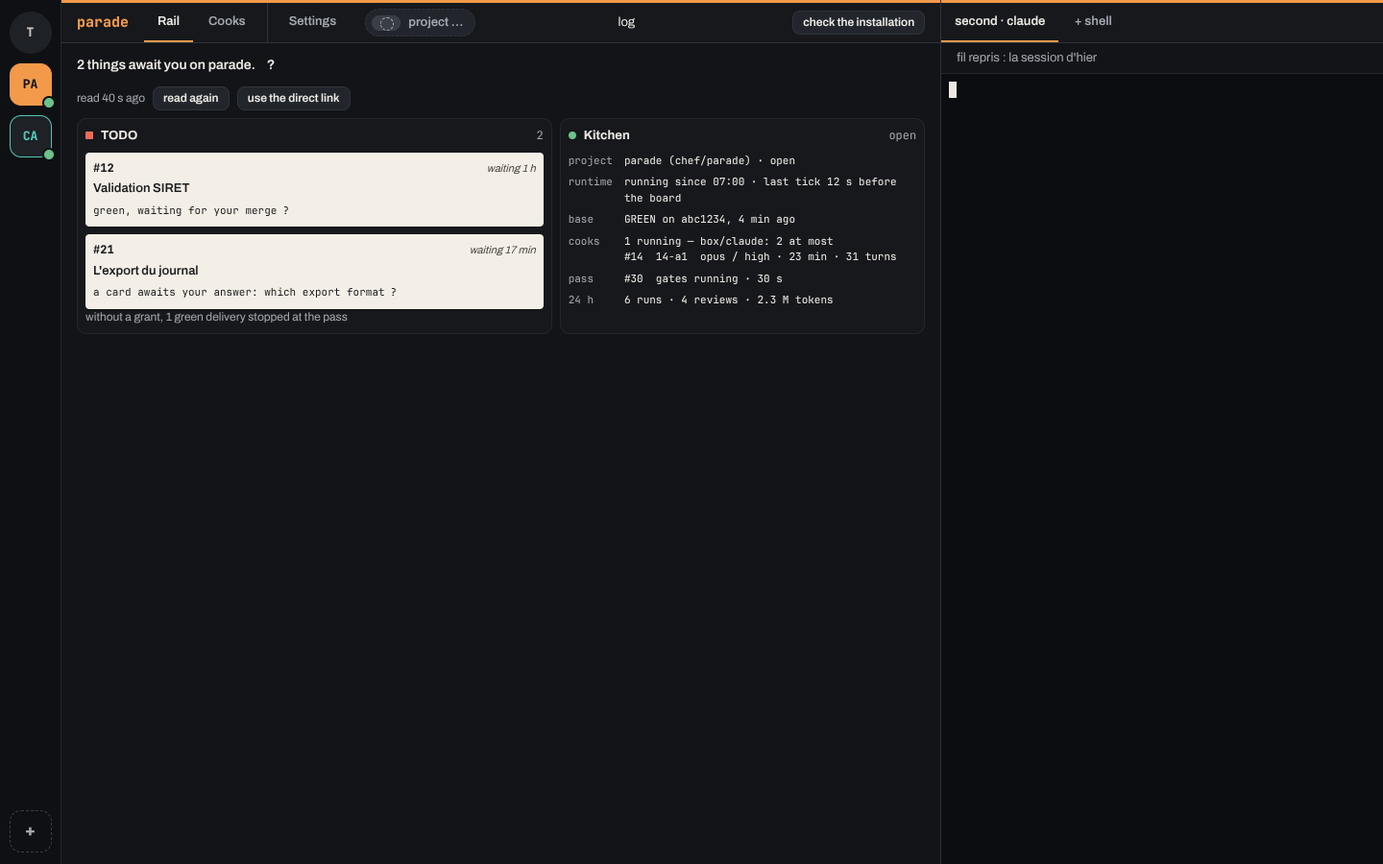
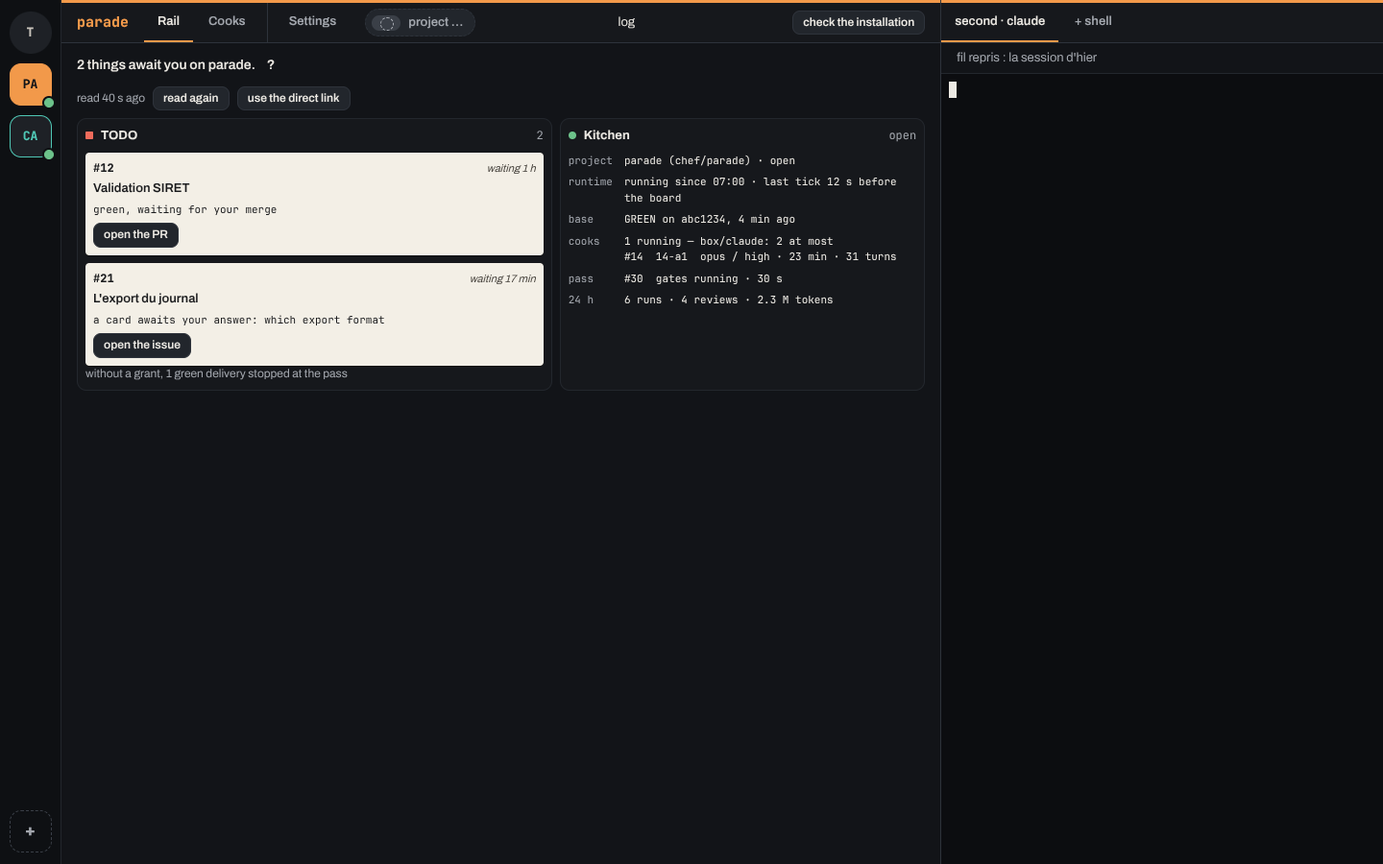
fix(#1588): give each line of the board's queue a button, its page on GitHub
Review: the queue's gesture was a command in a hover, not a button. Each
TODO line now ends on one button — `open the PR` for a delivery to merge,
`open the issue` for a card to answer or another ticket, `open the Kitchen
board` for a line that is no ticket's — the same brick as `open the merged
PR` on a Served card, its address in the hover. No command is left on the
line, written out or hovered.

The reading gives each line's page (lecture.ts, `pages`): the PR of its
decision when it is of the project's repository, else its ticket's issue,
else the board. The bridges open only a page the last reading gave —
`ouvrirDuTableau` in main.ts/preload on the desktop, in pont.js on the
phone (the native `ouvrir`). Captures retaken.

Changed region(s): [[0.0625, 0.2178, 0.4062, 0.4356]]

diff --git a/app/test/vue/tableau-de-cuisine.test.ts b/app/test/vue/tableau-de-cuisine.test.ts
@@ -1,5 +1,5 @@
 // L'onglet Rail d'un projet lu de son tableau de la cuisine sur GitHub (#1588, épique 1580) : ce qui attend le chef —
-// chaque ligne avec son geste — et l'état de la cuisine, sans `ssh` ni tailnet ; l'âge de la lecture, qui suit chaque
+// chaque ligne avec son bouton, sa page sur GitHub — et l'état de la cuisine, sans `ssh` ni tailnet ; l'âge de la lecture, qui suit chaque
 // relecture ; et, quand le tableau ne se lit pas, une phrase et le lien direct — seulement quand le projet en a un —,
 // jamais un écran vide. Le module est joué devant un faux document, puis la vue entière devant un faux pont
 // (aides/fausse-vue.ts), avec des lectures rendues par le module même de l'app (app/src/tableau/lecture.ts).
@@ -23,10 +23,12 @@ import { RELIRE } from "../../src/vue/premier-lancement.js";
 import {
   COLONNE_DE_LA_CUISINE,
   COLONNE_DE_LA_FILE,
-  GESTE_DE_LA_LIGNE,
   gesteDe,
   LECTURE_DU_TABLEAU,
   LIEN_DIRECT,
+  OUVRIR_L_ISSUE,
+  OUVRIR_LA_PR,
+  OUVRIR_LE_TABLEAU,
   PAR_LE_LIEN_DIRECT,
   poserLeTableauDeCuisine,
   RETOUR_AU_TABLEAU,
@@ -58,7 +60,7 @@ const SANS_TABLEAU = await lire({ status: 200, data: [] });
 
 function gestesNotes() {
   const faits: string[] = [];
-  const geste: GestesDuTableau = { relire: () => void faits.push("relire"), prendreLeLienDirect: () => void faits.push("direct") };
+  const geste: GestesDuTableau = { relire: () => void faits.push("relire"), prendreLeLienDirect: () => void faits.push("direct"), ouvrir: (url) => void faits.push(url) };
   return { faits, geste };
 }
 const sous = (pose: Faux | undefined): Faux[] => (pose === undefined ? [] : [...pose.descendants()]);
@@ -69,8 +71,9 @@ const poser = (etat: Partial<Parameters<typeof poserLeTableauDeCuisine>[1]>, ges
   poserLeTableauDeCuisine(doc, { projet: PARADE, lienDirect: true, maintenant: LU_LE.getTime(), ...etat }, geste) as Faux[];
 
 describe("le tableau de la cuisine, posé par son module", () => {
-  test("lu : ce qui t'attend en tête, d'où il vient au survol ; l'âge de la lecture ; la file, chaque ligne et son geste ; la cuisine", () => {
-    const poses = poser({ lu: LU });
+  test("lu : ce qui t'attend en tête, d'où il vient au survol ; l'âge de la lecture ; la file, chaque ligne et son bouton ; la cuisine", () => {
+    const { faits, geste } = gestesNotes();
+    const poses = poser({ lu: LU }, geste);
     const [tete, gestes, grille] = poses;
     assert.equal(tete?.className, "attendu");
     assert.match(tete?.textContent ?? "", /^2 things await you on parade\./);
@@ -81,11 +84,17 @@ describe("le tableau de la cuisine, posé par son module", () => {
     assert.equal(file?.dataset.attend, "");
     const cartes = sous(file).filter((pose) => pose.className === "bon");
     assert.equal(cartes.length, 2);
-    // Le nom, le titre, ce qui attend — sans commande à plat : le geste est au survol de sa ligne, mot pour mot.
-    assert.match(cartes[0]?.textContent ?? "", /^#18waiting 2 hShow the queue on the phonegreen, waiting for your merge\?$/);
-    assert.equal(cartes[0]?.textContent.includes("brigade"), false);
-    assert.deepEqual(aides(cartes[0]), [`${GESTE_DE_LA_LIGNE} brigade parade pass 18`]);
-    assert.deepEqual(aides(cartes[1]), [`${GESTE_DE_LA_LIGNE} brigade parade rail choose 21 <n>`]);
+    // Le nom, le titre, ce qui attend, puis le bouton de la ligne — aucune commande, ni à plat ni au survol : la PR à
+    // merger, l'issue où répondre à la carte, chacune sa page sur GitHub, son adresse au survol du bouton.
+    assert.match(cartes[0]?.textContent ?? "", new RegExp(`^#18waiting 2 hShow the queue on the phonegreen, waiting for your merge${OUVRIR_LA_PR}$`));
+    assert.equal(cartes.some((carte) => carte.textContent.includes("brigade")), false);
+    assert.deepEqual([...aides(cartes[0]), ...aides(cartes[1])], []);
+    assert.deepEqual(boutons(cartes.slice(0, 1)).map((pose) => pose.textContent), [OUVRIR_LA_PR]);
+    assert.deepEqual(boutons(cartes.slice(1)).map((pose) => pose.textContent), [OUVRIR_L_ISSUE]);
+    assert.equal(boutons(cartes.slice(0, 1))[0]?.title, "https://github.com/chef/parade/pull/40");
+    bouton(cartes.slice(0, 1), OUVRIR_LA_PR).click();
+    bouton(cartes.slice(1), OUVRIR_L_ISSUE).click();
+    assert.deepEqual(faits, ["https://github.com/chef/parade/pull/40", "https://github.com/chef/parade/issues/21"]);
     // Le titre d'un ticket reste du texte : `<the>` n'est pas une balise.
     assert.equal(sous(cartes[1]).find((pose) => pose.balise === "strong")?.textContent, "Pick a colour for <the> board");
     assert.match(file?.textContent ?? "", /without a grant, 1 green delivery stopped at the pass$/);
@@ -110,12 +119,19 @@ describe("le tableau de la cuisine, posé par son module", () => {
 
   test("lu, avec un lien direct : « read again » et « use the direct link », aucun recommandé ; sans lien, « read again » seul", () => {
     const { faits, geste } = gestesNotes();
-    const avec = poser({ lu: LU }, geste);
+    const avec = poser({ lu: LU }, geste).slice(0, 2);
     assert.deepEqual(boutons(avec).map((pose) => [pose.textContent, pose.className]), [[RELIRE, ""], [LIEN_DIRECT, ""]]);
     bouton(avec, RELIRE).click();
     bouton(avec, LIEN_DIRECT).click();
     assert.deepEqual(faits, ["relire", "direct"]);
-    assert.deepEqual(boutons(poser({ lu: LU, lienDirect: false })).map((pose) => pose.textContent), [RELIRE]);
+    assert.deepEqual(boutons(poser({ lu: LU, lienDirect: false }).slice(0, 2)).map((pose) => pose.textContent), [RELIRE]);
+  });
+
+  test("une ligne qui n'est à aucun ticket s'ouvre sur le tableau même : son bouton le dit", () => {
+    const panne = { ...TABLEAU.file[0]!, nom: "breaker", ticket: null, titre: null, quoi: "disjoncteur", decision: null, ligne: "the breaker is open — `brigade parade guardrails resume`" };
+    const lu: TableauLu = { ...LU, file: [panne], pages: ["https://github.com/chef/parade/issues/7"] };
+    const carte = sous(poser({ lu })[2]).find((pose) => pose.className === "bon");
+    assert.equal(carte?.textContent, `breakerwaiting 2 hthe breaker is open${OUVRIR_LE_TABLEAU}`);
   });
 
   test("rien n'attend : la tête le dit, et TODO aussi", () => {
@@ -204,7 +220,11 @@ describe("dans la vue : l'onglet Rail lit le tableau de la cuisine", () => {
     assert.match(rail.textContent, /read \d+ (s|min|h|d) ago/);
     assert.equal(sous(rail).filter((pose) => pose.className === "bon").length, 2);
     assert.match(rail.textContent, /Kitchenopenprojectparade \(chef\/parade\) · open/);
-    assert.deepEqual(boutons([rail]).map((pose) => pose.textContent), [RELIRE]);
+    assert.deepEqual(boutons([rail]).map((pose) => pose.textContent), [RELIRE, OUVRIR_LA_PR, OUVRIR_L_ISSUE]);
+    // Le bouton d'une ligne ouvre sa page par le pont, qui ne l'ouvre que si la lecture l'a donnée.
+    bouton([rail], OUVRIR_LA_PR).click();
+    await repos();
+    assert.deepEqual(vue.dernier("ouvrirDuTableau"), [PARADE, "https://github.com/chef/parade/pull/40"]);
     // Aucun `ssh` n'est demandé pour ce projet : il n'en a pas.
     assert.equal(vue.appels.some(({ geste }) => geste === "relireBox"), false);
   });
@@ -244,8 +264,8 @@ describe("dans la vue : l'onglet Rail lit le tableau de la cuisine", () => {
     await repos();
     assert.equal(lectures, 2);
     assert.match(rail.textContent, /^2 things await you on parade\./);
-    // Lu, le lien direct reste offert, en second geste.
-    assert.deepEqual(boutons([rail]).map((pose) => [pose.textContent, pose.className]), [[RELIRE, ""], [LIEN_DIRECT, ""]]);
+    // Lu, le lien direct reste offert, en second geste ; puis le bouton de chaque ligne.
+    assert.deepEqual(boutons([rail]).map((pose) => [pose.textContent, pose.className]), [[RELIRE, ""], [LIEN_DIRECT, ""], [OUVRIR_LA_PR, "pr"], [OUVRIR_L_ISSUE, "pr"]]);
   });
 
   test("l'onglet Cooks reste celui du lien direct : le tableau ne s'y pose pas", async () => {

diff --git a/app/src/vue/tableau-de-cuisine.js b/app/src/vue/tableau-de-cuisine.js
@@ -1,7 +1,7 @@
 // @ts-check
 // Le tableau de la cuisine d'un projet (« Kitchen board », ticket 1588, épique 1580) : l'issue que sa box tient à jour
 // dans le dépôt du projet, lue de GitHub par l'app (app/src/tableau/lecture.ts) — ni `ssh` ni tailnet. L'onglet Rail en
-// tire ce qui attend le chef, chaque ligne avec son geste — au survol, en attendant qu'il soit un bouton —, et l'état de la cuisine, tels que `status` les écrit ; et il
+// tire ce qui attend le chef, chaque ligne avec son bouton — sa page sur GitHub —, et l'état de la cuisine, tels que `status` les écrit ; et il
 // dit l'âge de cette lecture. Il n'est jamais vide : en tête, toujours une phrase — ce qui attend le chef, ou pourquoi
 // le tableau ne se lit pas. Une lecture qui échoue offre le lien direct (`ssh`, le guichet d'une station) quand le projet
 // en a un, et seulement alors ; la dernière lecture réussie reste dessous, marquée de son âge.
@@ -31,6 +31,7 @@ import { gestes, phraseEtDetail, RELIRE } from "./premier-lancement.js";
  * @typedef {{
  *   relire: () => void,
  *   prendreLeLienDirect: () => void,
+ *   ouvrir: (url: string) => void,
  *   forme?: (ton: string | undefined) => string | undefined,
  * }} GestesDuTableau
  */
@@ -92,8 +93,9 @@ const provenanceDe = (lu) =>
   `From the Kitchen board of ${lu.depot} (issue ${lu.numero}), written by the box at ${utc(lu.genereLe)} and read on GitHub at ${utc(lu.luLe)} — this screen reads GitHub, not the box.`;
 
 // Ce qu'une ligne de la file dit, et le geste du chef qui la finit : `status` l'écrit en code après un tiret
-// (« green, waiting for your merge — `brigade parade pass 18` »). Le geste passe au survol — aucune commande à recopier
-// à plat ; ce qui le dit en mots reste. Une ligne qui ne finit pas sur un geste reste entière.
+// (« green, waiting for your merge — `brigade parade pass 18` »). Aucune commande à recopier : sur une ligne de la file,
+// son bouton la remplace ; dans la cuisine, elle passe au survol. Ce qui le dit en mots reste. Une ligne qui ne finit pas
+// sur un geste reste entière.
 export const GESTE_DE_LA_LIGNE = "the gesture, as status writes it:";
 const GESTES_EN_FIN = /(?:\s+—\s+`[^`]+`)+\s*$/;
 /** @param {string} ligne @returns {{ dit: string, geste: string }} */
@@ -103,10 +105,21 @@ export function gesteDe(ligne) {
   return { dit: ligne.slice(0, fin.index), geste: [...fin[0].matchAll(/`([^`]+)`/g)].map(([, code]) => code).join(" · ") };
 }
 
-// Une ligne de la file : son nom, depuis quand elle attend, le titre de son ticket, puis ce qui attend et le geste du
-// chef, mot pour mot comme `status` l'écrit — le geste en code.
-/** @param {Fabrique} doc @param {TableauLu["file"][number]} ligne @param {number} maintenant */
-function bonDeLaFile(doc, { nom, titre, depuis, ligne }, maintenant) {
+// Le bouton d'une ligne de la file : sa page sur GitHub (lecture.ts, `pages`) — la PR à merger, l'issue où répondre,
+// ou le tableau même. Le geste du chef s'y fait ; les boutons qui le font d'ici sont le ticket 1590.
+export const OUVRIR_LA_PR = "open the PR";
+export const OUVRIR_L_ISSUE = "open the issue";
+export const OUVRIR_LE_TABLEAU = "open the Kitchen board";
+/** @param {TableauLu} lu @param {string} page */
+export const boutonDeLaLigne = (lu, page) =>
+  page === `https://github.com/${lu.depot}/issues/${lu.numero}` ? OUVRIR_LE_TABLEAU : /\/pull\/\d+$/.test(page) ? OUVRIR_LA_PR : OUVRIR_L_ISSUE;
+
+// Une ligne de la file : son nom, depuis quand elle attend, le titre de son ticket, ce qui attend, mot pour mot comme
+// `status` l'écrit, puis son bouton.
+/** @param {Fabrique} doc @param {TableauLu} lu @param {number} rang @param {number} maintenant @param {GestesDuTableau} geste */
+function bonDeLaFile(doc, lu, rang, maintenant, geste) {
+  const { nom, titre, depuis, ligne } = lu.file[rang] ?? { nom: "", titre: null, depuis: "", ligne: "" };
+  const page = lu.pages?.[rang];
   const bon = cree(doc, "li");
   bon.className = "bon";
   const tete = cree(doc, "div");
@@ -121,11 +134,18 @@ function bonDeLaFile(doc, { nom, titre, depuis, ligne }, maintenant) {
   }
   bon.append(tete);
   if (titre !== null && titre !== "") bon.append(cree(doc, "strong", titre));
-  const { dit, geste } = gesteDe(ligne);
-  const pose = phrase(doc, "p", dit);
+  const pose = phrase(doc, "p", gesteDe(ligne).dit);
   pose.className = "ligne-carte";
-  if (geste !== "") pose.append(survol(doc, `${GESTE_DE_LA_LIGNE} ${geste}`));
   bon.append(pose);
+  // Le même bouton que « open the merged PR » d'une carte de Served : son adresse au survol.
+  if (page !== undefined) {
+    const ouvre = cree(doc, "button", boutonDeLaLigne(lu, page));
+    ouvre.type = "button";
+    ouvre.className = "pr";
+    ouvre.title = page;
+    ouvre.addEventListener("click", () => geste.ouvrir(page));
+    bon.append(ouvre);
+  }
   return bon;
 }
 
@@ -156,7 +176,7 @@ function colonnes(doc, lu, maintenant, geste) {
     file.append(vide);
   } else {
     const liste = cree(doc, "ol");
-    liste.append(...lu.file.map((ligne) => bonDeLaFile(doc, ligne, maintenant)));
+    liste.append(...lu.file.map((_, rang) => bonDeLaFile(doc, lu, rang, maintenant, geste)));
     file.append(liste);
   }
   file.append(...lu.bilans.map((bilan) => phrase(doc, "p", bilan)));
@@ -167,7 +187,7 @@ function colonnes(doc, lu, maintenant, geste) {
   for (const { titre, lignes } of lu.cuisine.rubriques) {
     const terme = cree(doc, "dt", titre);
     terme.className = "mono";
-    // Comme une ligne de la file : un geste qui finit une ligne passe au survol de sa rubrique.
+    // Un geste qui finit une ligne de la cuisine passe au survol de sa rubrique.
     const lues = lignes.map(gesteDe);
     const dit = phrase(doc, "dd", lues.map((lue) => lue.dit).join("\n"));
     dit.className = "mono";

diff --git a/app/android/web/pont.js b/app/android/web/pont.js
@@ -36,7 +36,7 @@
 // du second, et ce que le chef tape au desktop, arrivent à la vue par `surConversation`. Un lien d'un message du second
 // s'ouvre dans le navigateur du téléphone (Pont.java, `ouvrir`).
 // Et le tableau de la cuisine de chaque projet (le ticket 1588) : `tableauDuProjet` le lit de GitHub, sans la station,
-// par le HTTP natif et le jeton GitHub du coffre du téléphone.
+// par le HTTP natif et le jeton GitHub du coffre du téléphone ; `ouvrirDuTableau` ouvre la page d'une de ses lignes.
 // Les mises à jour ne sont pas ici.
 //
 // Ce fichier n'est pas joué tel quel : la construction l'enveloppe, avec `DEMARRAGE`, dans
@@ -176,6 +176,9 @@ async function demarrage() {
 }
 
 /** @type {Record<string, (...args: any[]) => unknown>} */
+// Les pages de GitHub que la dernière lecture du tableau de chaque projet a données (`tableauDuProjet`).
+/** @type {Map<string, Set<string>>} */
+const pagesDuTableau = new Map();
 const connus = {
   demarrage,
   appairerLeTelephone,
@@ -221,9 +224,22 @@ const connus = {
     if (typeof depot !== "string") return { lu: false, depot: "", luLe, raison: `The Kitchen board of ${projet} is not read: this phone does not know its GitHub repository yet.` };
     try {
       const { lireLeTableauDuTelephone } = await import(new URL("../../android/lecture.js", window.location.href).href);
-      return await lireLeTableauDuTelephone(depot, { natif });
+      const lu = await lireLeTableauDuTelephone(depot, { natif });
+      if (lu?.lu === true) pagesDuTableau.set(projet, new Set(lu.pages));
+      return lu;
     } catch {
       return { lu: false, depot, luLe, raison: `The Kitchen board of ${projet} could not be read: this app could not load what reads it.` };
+    }
+  },
+  // Une ligne de la file de ce tableau, ouverte dans le navigateur du téléphone (Pont.java, `ouvrir`) : seulement une page
+  // que sa dernière lecture a donnée — sa PR, son issue, ou le tableau.
+  ouvrirDuTableau: async (/** @type {string} */ projet, /** @type {string} */ url) => {
+    if (pagesDuTableau.get(projet)?.has(url) !== true) return false;
+    try {
+      await natif("Pont", "ouvrir", { url });
+      return true;
+    } catch {
+      return false;
     }
   },
   // L'appairage effacé : le jeton, la station et ses projets. La vue revient à l'écran qui relie le téléphone.

diff --git a/app/src/tableau/lecture.ts b/app/src/tableau/lecture.ts
@@ -33,6 +33,9 @@ export type TableauLu = {
   // Ce que le bloc porte : le projet, la file du chef, ce que `status` dit sans que ce soit une décision, la cuisine.
   projet: string | null;
   file: LigneDeLaFile[];
+  // La page de GitHub où se finit chaque ligne de la file, dans son ordre (`pageDeLaLigne`) : la PR de sa décision,
+  // l'issue de son ticket, ou le tableau même pour une ligne qui n'est à aucun ticket.
+  pages: string[];
   bilans: string[];
   cuisine: CuisineDuTableau;
 };
@@ -75,6 +78,15 @@ function leTableau(issues: IssueBrute[]): IssueBrute | undefined {
     .sort((a, b) => Number(a.number) - Number(b.number))[0];
 }
 
+// La page d'une ligne de la file, sur GitHub : la PR que sa décision nomme, si elle est de ce dépôt ; sinon l'issue de
+// son ticket ; sinon le tableau, où la box lit ce que le chef y écrit (#1585). Aucune autre adresse n'en sort.
+function pageDeLaLigne(depot: string, tableau: string, { ticket, decision }: LigneDeLaFile): string {
+  const pr = decision?.pr ?? "";
+  const dePr = `https://github.com/${depot}/pull/`;
+  if (pr.startsWith(dePr) && /^\d+$/.test(pr.slice(dePr.length))) return pr;
+  return ticket !== null && Number.isInteger(ticket) && ticket > 0 ? `https://github.com/${depot}/issues/${ticket}` : tableau;
+}
+
 export async function lireLeTableauDuDepot({ depot, appeler, maintenant = () => new Date() }: OptionsDeLecture): Promise<LectureDuTableauDuDepot> {
   const echec = (raison: string): TableauNonLu => ({ lu: false, depot, luLe: maintenant().toISOString(), raison });
   if (!DEPOT.test(depot)) return echec(`The project's repository "${depot}" is not an owner/name GitHub repository, so its Kitchen board cannot be read.`);
@@ -105,6 +117,7 @@ export async function lireLeTableauDuDepot({ depot, appeler, maintenant = () => 
     age: Math.max(0, Math.round((luLe.getTime() - Date.parse(genereLe)) / 1000)),
     projet: tableau.projet,
     file: tableau.file,
+    pages: tableau.file.map((ligne) => pageDeLaLigne(depot, `https://github.com/${depot}/issues/${numero}`, ligne)),
     bilans: tableau.bilans,
     cuisine: tableau.cuisine,
   };

diff --git a/app/test/tableau/lecture.test.ts b/app/test/tableau/lecture.test.ts
@@ -112,6 +112,31 @@ test("une réponse qui n'est pas une liste d'issues : un échec", async () => {
   assert.match(lecture.raison, /is not a list of issues\.$/);
 });
 
+test("chaque ligne de la file a sa page sur GitHub : la PR de sa décision, l'issue de son ticket, ou le tableau même", async () => {
+  const [merge, carte] = TABLEAU.file;
+  assert.ok(merge !== undefined && carte !== undefined);
+  const file = [
+    merge,
+    carte,
+    // Une ligne qui n'est à aucun ticket : la box lit sur le tableau ce que le chef y écrit (#1585).
+    { ...carte, nom: "breaker", ticket: null, decision: null, carte: null },
+    // Une PR qui n'est pas de ce dépôt n'en sort pas : c'est l'issue du ticket qui s'ouvre.
+    { ...merge, decision: { ...merge.decision!, pr: "https://evil.example/chef/parade/pull/40" } },
+    { ...merge, decision: { ...merge.decision!, pr: "https://github.com/chef/parade/pull/40/../../other" } },
+  ];
+  const corps = ISSUE.body.replace(ecrireLeBloc(TABLEAU, GENERE_LE), ecrireLeBloc({ ...TABLEAU, file }, GENERE_LE));
+  assert.notEqual(corps, ISSUE.body);
+  const lecture = await lire(github({ status: 200, data: [{ ...ISSUE, body: corps }] }).appeler);
+  assert.ok(lecture.lu, lecture.lu ? "" : lecture.raison);
+  assert.deepEqual(lecture.pages, [
+    "https://github.com/chef/parade/pull/40",
+    "https://github.com/chef/parade/issues/21",
+    "https://github.com/chef/parade/issues/7",
+    "https://github.com/chef/parade/issues/18",
+    "https://github.com/chef/parade/issues/18",
+  ]);
+});
+
 test("pas de tableau dans le dépôt : un échec qui le dit, pas une file vide", async () => {
   const vide = echec(await lire(github({ status: 200, data: [] }).appeler));
   assert.equal(vide.raison, "There is no open Kitchen board in chef/parade: the box serving it has not published one yet, or it was closed.");

diff --git a/app/src/main.ts b/app/src/main.ts
@@ -1080,7 +1080,19 @@ const appelerGitHub = clientGitHub({ jeton: jetonDeGh({ gh: ghIci, delaiMs: 10_0
 ipcMain.handle("tableauDuProjet", async (_, nom: unknown): Promise<LectureDuTableauDuDepot> => {
   const vise = declare(nom);
   if (vise === undefined) return { lu: false, depot: String(nom), luLe: new Date().toISOString(), raison: `The Kitchen board of ${String(nom)} is not read: it is no longer in the projects file.` };
-  return lireLeTableauDuDepot({ depot: vise.depot ?? vise.nom, appeler: appelerGitHub });
+  const lu = await lireLeTableauDuDepot({ depot: vise.depot ?? vise.nom, appeler: appelerGitHub });
+  if (lu.lu) pagesDuTableau.set(vise.nom, new Set(lu.pages));
+  return lu;
+});
+// Une ligne de la file du tableau s'ouvre sur sa page de GitHub, dans le navigateur du poste : seulement une page que la
+// dernière lecture du tableau de ce projet a donnée (lecture.ts, `pages`). Rend si elle a été ouverte.
+const pagesDuTableau = new Map<string, Set<string>>();
+ipcMain.handle("ouvrirDuTableau", (_, nom: unknown, url: unknown) => {
+  if (typeof url !== "string" || pagesDuTableau.get(String(nom))?.has(url) !== true) return false;
+  return shell.openExternal(url).then(
+    () => true,
+    () => false,
+  );
 });
 // Le plafond de cooks d'une station, réglé depuis sa page : la vue nomme la station et la valeur — un nombre,
 // 0 ou `auto` —, la commande `station cooks <valeur>` part sur la box de chaque projet dont le `status` lu

diff --git a/app/src/vue/pont.d.ts b/app/src/vue/pont.d.ts
@@ -309,6 +309,9 @@ export type Pont = {
   // sans `ssh` ni tailnet (app/src/tableau/lecture.ts) — la file du chef, l'état de la cuisine et l'âge de la lecture, ou
   // pourquoi il ne se lit pas, en une phrase. Un pont qui ne le lit pas rend `undefined` : la vue garde son rail d'avant.
   tableauDuProjet?(nom: string): Promise<import("../tableau/lecture.ts").LectureDuTableauDuDepot | undefined>;
+  // Une ligne de la file de ce tableau, ouverte sur sa page de GitHub — sa PR, son issue, ou le tableau —, dans le
+  // navigateur : seulement une page que la dernière lecture a donnée. Rend si elle a été ouverte.
+  ouvrirDuTableau?(nom: string, url: string): Promise<boolean>;
   // Ce qu'engage l'allumage du manager, chiffré (allumage.ts) : les issues ouvertes du projet, et
   // celles qui portent `blocked-on-human` — `manager backlog`, lancée une fois sur sa box. Demandé
   // quand la confirmation d'« allumer » s'ouvre : son « oui » n'attend pas cette lecture. Rien, pour un projet sans box.

diff --git a/app/src/vue/vue.js b/app/src/vue/vue.js
@@ -7646,6 +7646,12 @@ function gestesDuTableau(projet) {
       if (courant?.nom === projet.nom) poserRail(projet);
       brigade.relireBox(demandeFaits);
     },
+    // Une ligne de la file, sur sa page de GitHub : ce qui ne s'ouvre pas se dit dans la ligne du bas, comme une issue.
+    ouvrir: (url) =>
+      void (async () => {
+        nonEcrit = (await brigade.ouvrirDuTableau?.(projet.nom, url)) ? "" : `${url} was not opened: it is not a page of the latest Kitchen board read, or this device could not open it`;
+        montrer();
+      })(),
     forme: formeDe,
   };
 }

diff --git a/scripts/capture-ecran/README.md b/scripts/capture-ecran/README.md
@@ -140,7 +140,7 @@ compare que deux captures du même navigateur.
 | `premier-lancement`, `premier-lancement-clonage`, `premier-lancement-echec` | L'app ouverte pour la première fois sur un PC, sans projet (#1434) : les stations du chef, son Mac et parade-box, et les projets que chacune porte, un bouton chacun — puis parade cliqué, sa copie en route dite sous sa station ; puis son clone refusé, la raison du runtime, « open the page on GitHub » et « try again » |
 | `premier-lancement-connexion`, `premier-lancement-code`, `premier-lancement-indisponible` | Le même écran quand le PC n'est connecté à aucun compte GitHub : la phrase et « Sign in to GitHub » ; puis le bouton cliqué, le code à taper sur la page ouverte ; puis sans `gh` sur le PC, la raison, « get the GitHub CLI » et « read again » |
 | `telephone-relance` | L'app Android relancée, le téléphone déjà appairé : « Tous les projets », sans écran d'appairage |
-| `tableau`, `tableau-sans-lien` | Le Rail de `parade` lu de son tableau de la cuisine sur GitHub (#1588), tel que la box l'écrit et que l'app le lit (`ecrans/tableau-commun.ts`) : ce qui t'attend en tête, « read 40 s ago », TODO — chaque ligne, son geste au survol — et la cuisine rubrique par rubrique ; avec sa box, « use the direct link » en second geste — puis sur un poste sans `ssh` ni station pour `parade`, « read again » seul |
+| `tableau`, `tableau-sans-lien` | Le Rail de `parade` lu de son tableau de la cuisine sur GitHub (#1588), tel que la box l'écrit et que l'app le lit (`ecrans/tableau-commun.ts`) : ce qui t'attend en tête, « read 40 s ago », TODO — chaque ligne et son bouton, « open the PR » ou « open the issue » — et la cuisine rubrique par rubrique ; avec sa box, « use the direct link » en second geste — puis sur un poste sans `ssh` ni station pour `parade`, « read again » seul |
 | `tableau-illisible`, `tableau-illisible-sans-lien`, `tableau-lien-direct` | Le tableau de `parade` qui ne se lit pas (#1588) : GitHub injoignable, la phrase, l'erreur du réseau au survol, « use the direct link » recommandé et « read again » ; un dépôt privé sur un poste sans lien direct, « read again » seul ; puis « use the direct link » cliqué : le rail lu par `ssh` comme avant, une ligne en tête et « back to the Kitchen board » |
 | `telephone-tableau`, `telephone-tableau-illisible` | Les mêmes sur le téléphone appairé (#1588), en 412 × 915 : le Rail de `parade` lu de son tableau sur GitHub, sans le guichet — TODO puis la cuisine, empilés ; puis GitHub et la station injoignables : la phrase, « use the direct link » et « read again » |
 

diff --git a/docs/app.md b/docs/app.md
@@ -325,9 +325,12 @@ minute), and on `read again`.
   `read 40 s ago`: from when the box wrote the board, counted up to the screen's time, so it ages
   between two reads and changes at each one. Then two columns: **TODO**, each line of the queue —
   its name, how long it has waited, its ticket's title, what awaits the chef in `status`'s words —
-  with the gesture that ends the line (`brigade parade pass 18`) in the line's `?` hover: no command
-  is written out (making it a button is #1590). Under the lines, what `status` says that is no
-  decision. **Kitchen**, the kitchen's state in a word (`open`, `held`, `stopped`, `off`) and each
+  and one button that opens the line's page on GitHub, where its gesture is done: `open the PR` for
+  a delivery to merge, `open the issue` for a card to answer or any other ticket, `open the Kitchen
+  board` for a line that is no ticket's. The page's address is in the button's hover; the app opens
+  only a page its last reading of the board gave. No command is written out, on screen or in a
+  hover (doing the decision from the app itself is #1590). Under the lines, what `status` says that
+  is no decision. **Kitchen**, the kitchen's state in a word (`open`, `held`, `stopped`, `off`) and each
   heading of `status` with its lines.
 - **Not read**: the head is the reading's one sentence — GitHub out of reach (the network's error
   in the hover), a refusal, a repository with no board, a board the app cannot read. When the
@@ -342,7 +345,8 @@ minute), and on `read again`.
 - **Cooks**, and a running cook's live view, still go through the direct link, as before.
 
 *Code: `app/src/vue/tableau-de-cuisine.js` (the screen), `lireLeTableau` in `app/src/vue/vue.js`,
-`tableauDuProjet` in `app/src/main.ts` and `app/android/web/pont.js`. Captures:
+`tableauDuProjet` and `ouvrirDuTableau` in `app/src/main.ts` and `app/android/web/pont.js`, each line's
+page in `app/src/tableau/lecture.ts` (`pages`). Captures:
 `docs/captures/1588/`.*
 
 ### The second's choices, as buttons under its terminal (#1520)
